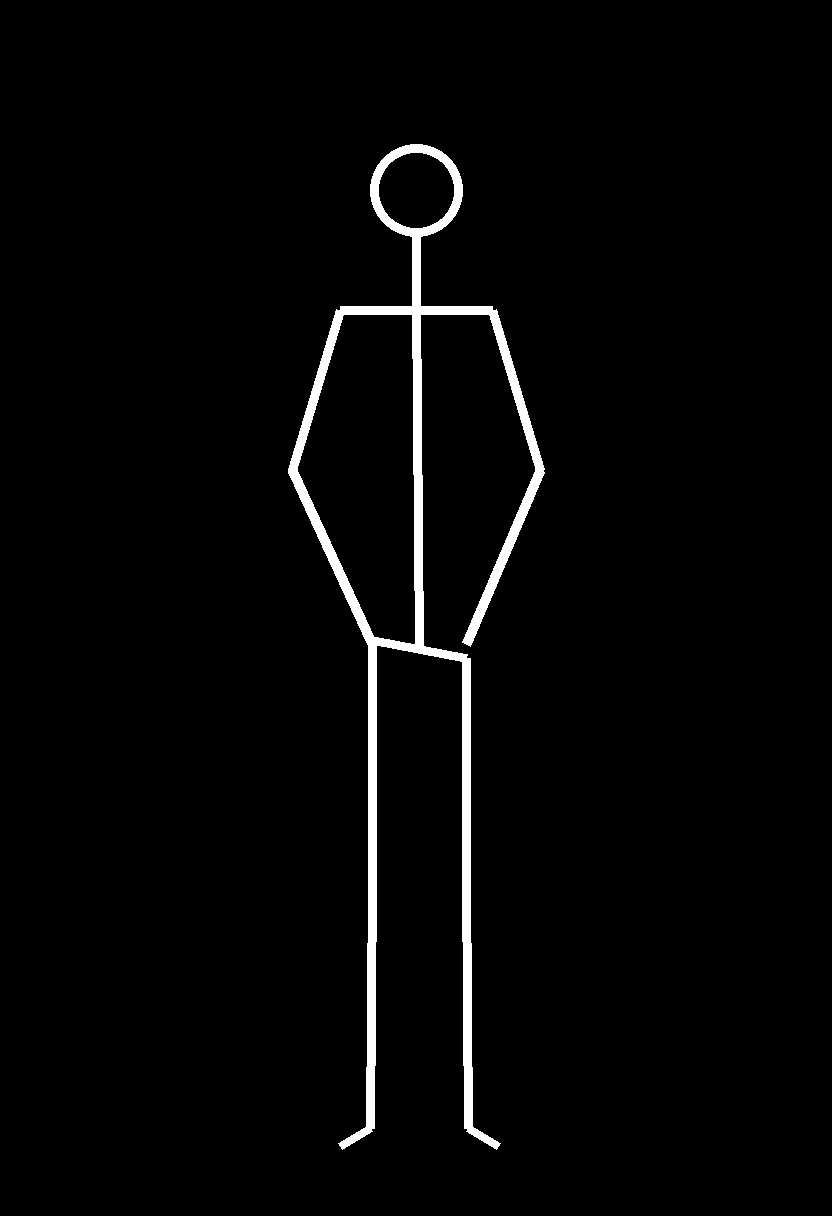
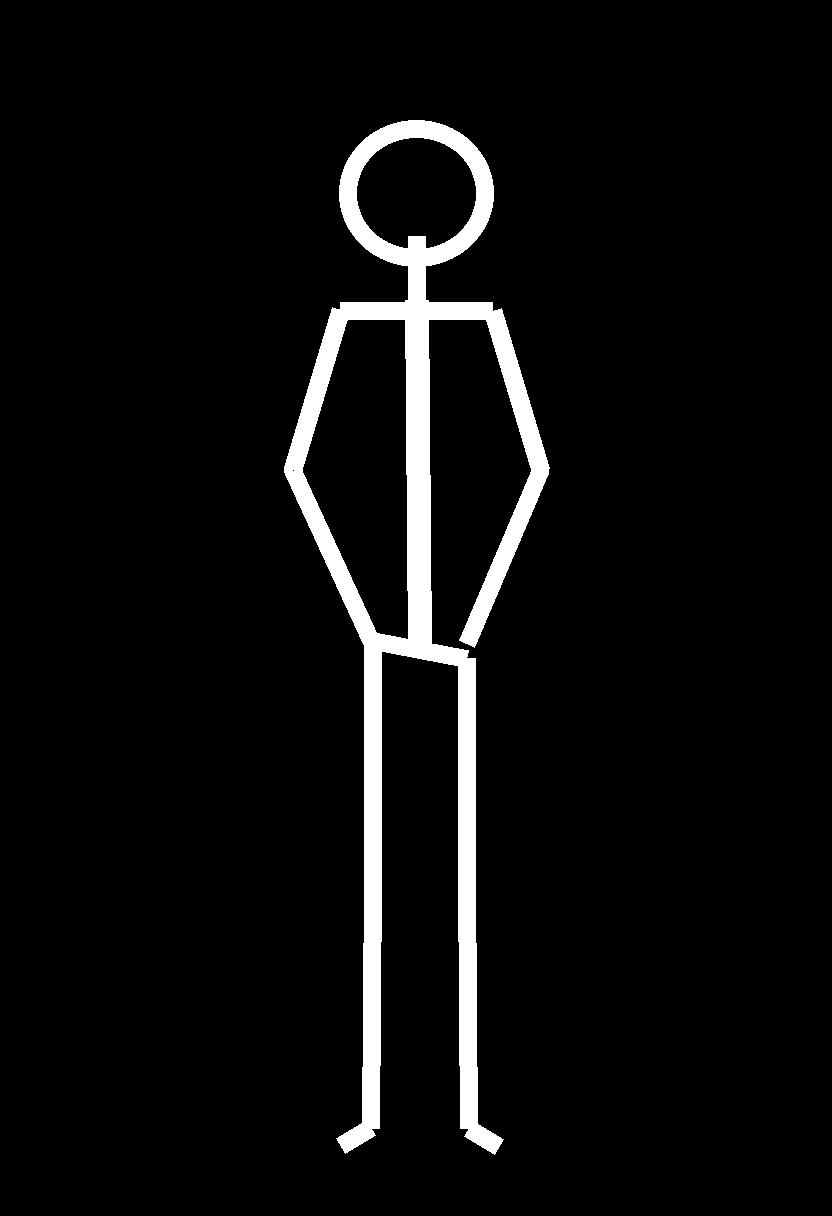
art: skeletons restyled to accepted weight, head, mode

Changed region(s): [[0.3438, 0.0938, 0.6562, 0.9688]]

diff --git a/tools/mk_skel.py b/tools/mk_skel.py
@@ -1,7 +1,7 @@
 import pathlib,sys
 from PIL import Image, ImageDraw
 W,H=832,1216
-HEAD=(370,144,462,236)
+HEAD=(339,120,493,266)
 CORE=[((416,236),(416,300)),((340,310),(492,310)),((416,300),(419,649)),((372,640),(466,658))]
 A={'p1':[((340,310),(318,470),(310,610)),((492,310),(514,470),(522,610))],
 'p2':[((340,310),(292,470),(372,644)),((492,310),(540,470),(466,644))],
@@ -25,8 +25,9 @@ F={'p1':[((364,1128),(334,1146)),((474,1128),(504,1146))],
 'p7':[((368,1128),(338,1146)),((470,1128),(500,1146))],
 'p8':[((356,1128),(326,1146)),((482,1128),(512,1146))]}
 for k in sys.argv[1:]:
-    im=Image.new('L',(W,H),0); d=ImageDraw.Draw(im)
-    d.ellipse(HEAD,outline=255,width=9)
-    for p in CORE+A[k]+L[k]+F[k]: d.line(p,fill=255,width=9,joint='curve')
+    im=Image.new('RGB',(W,H),(0,0,0)); d=ImageDraw.Draw(im)
+    d.ellipse(HEAD,outline=(255,255,255),width=18)
+    for p in CORE+A[k]+L[k]+F[k]: d.line(p,fill=(255,255,255),width=18,joint='curve')
+    d.line(CORE[2],fill=(255,255,255),width=24)
     im.save('art/skeletons/skel-ppose-%s.png'%k)
     print(k,im.size)

diff --git a/art/skeletons/SET.md b/art/skeletons/SET.md
@@ -22,6 +22,7 @@ N add: machinery, mecha, robot, industrial, scenery, props, background clutter,
 blurry, soft focus, depth of field, bokeh, gradient background, no humans
 
 ## Notes
+STYLE matches accepted remote-ppose.sh: RGB, head 154 wide from y120, limbs 18, spine 24.
 ppose hips tilted 36px, shoulders counter 22px - do not level them.
 apose-wide is asymmetric on purpose - brace/landing base, not a T.
 
